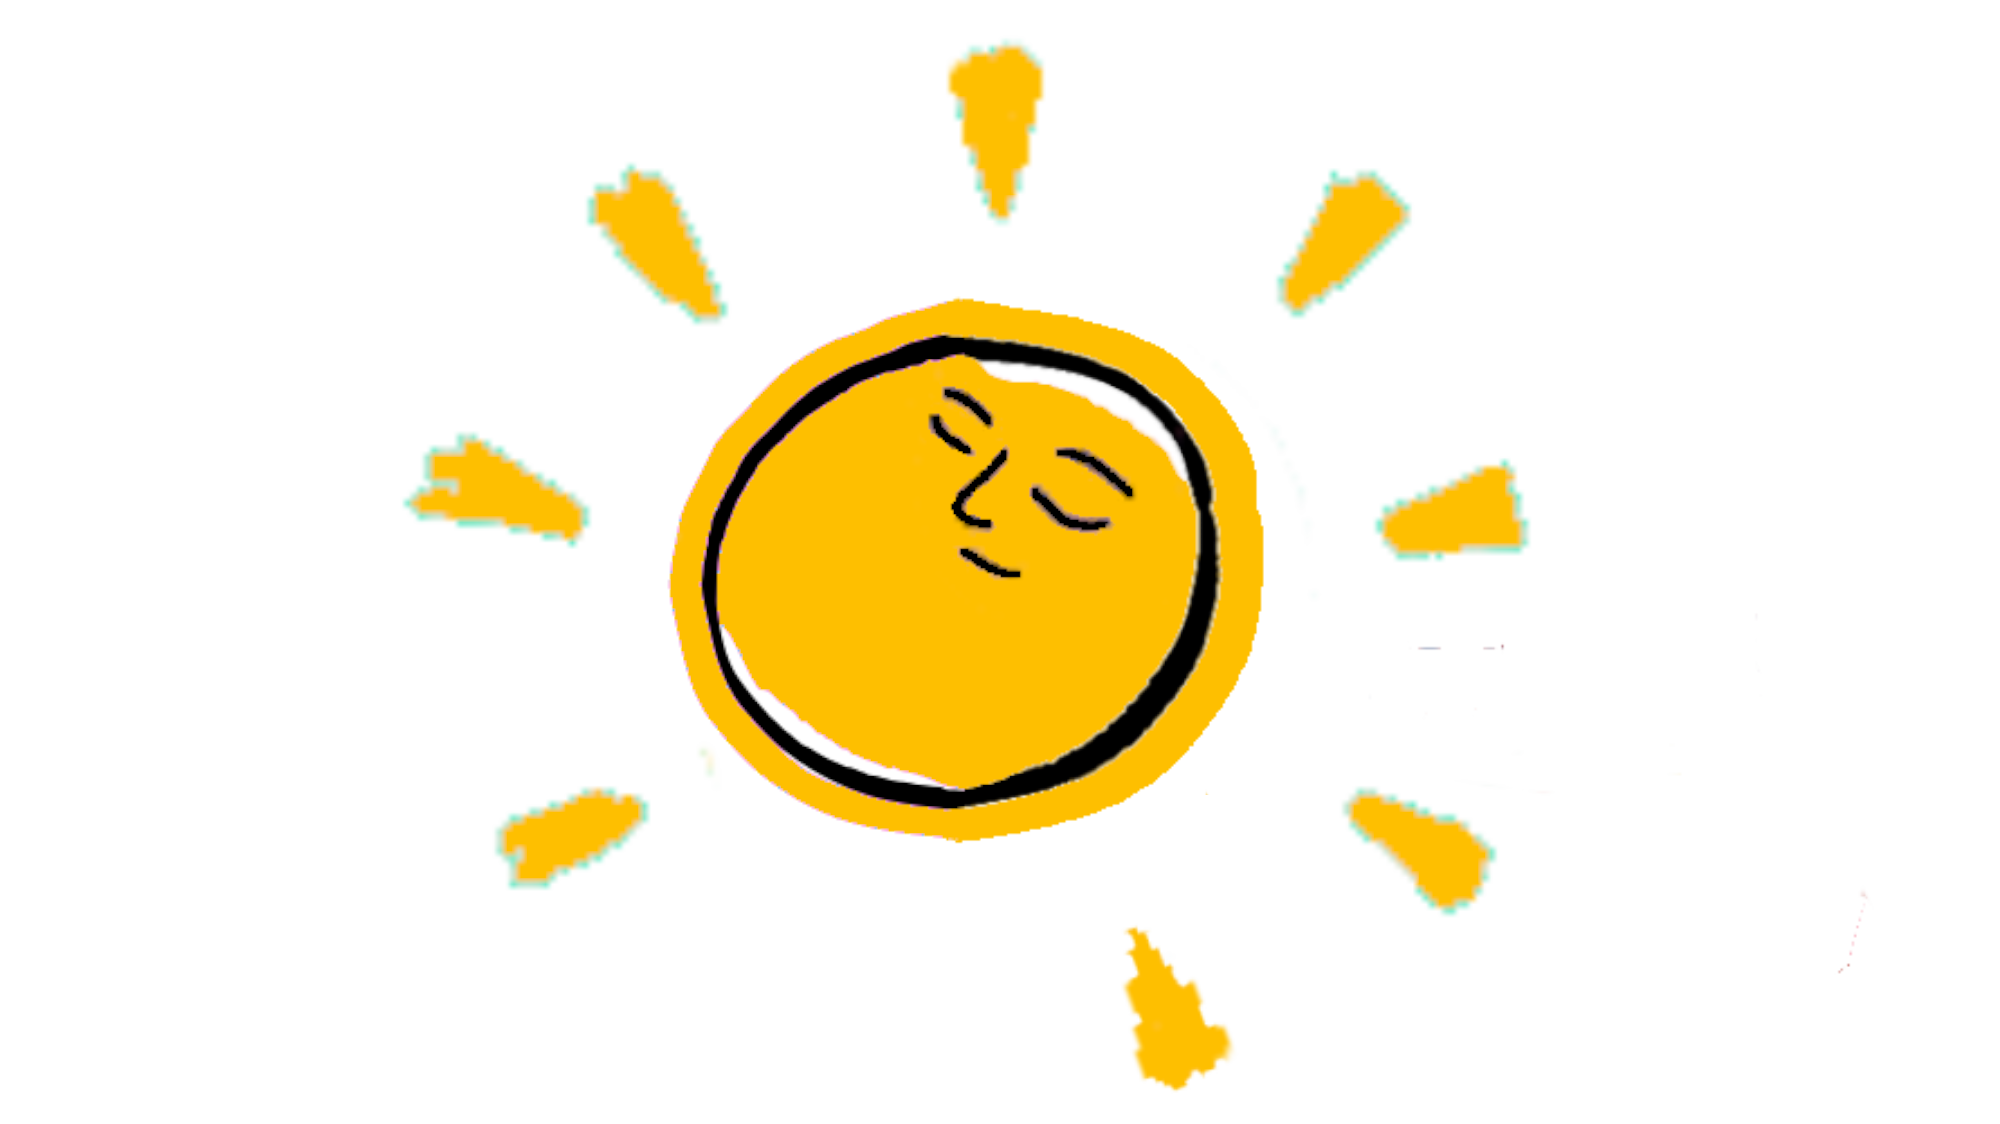
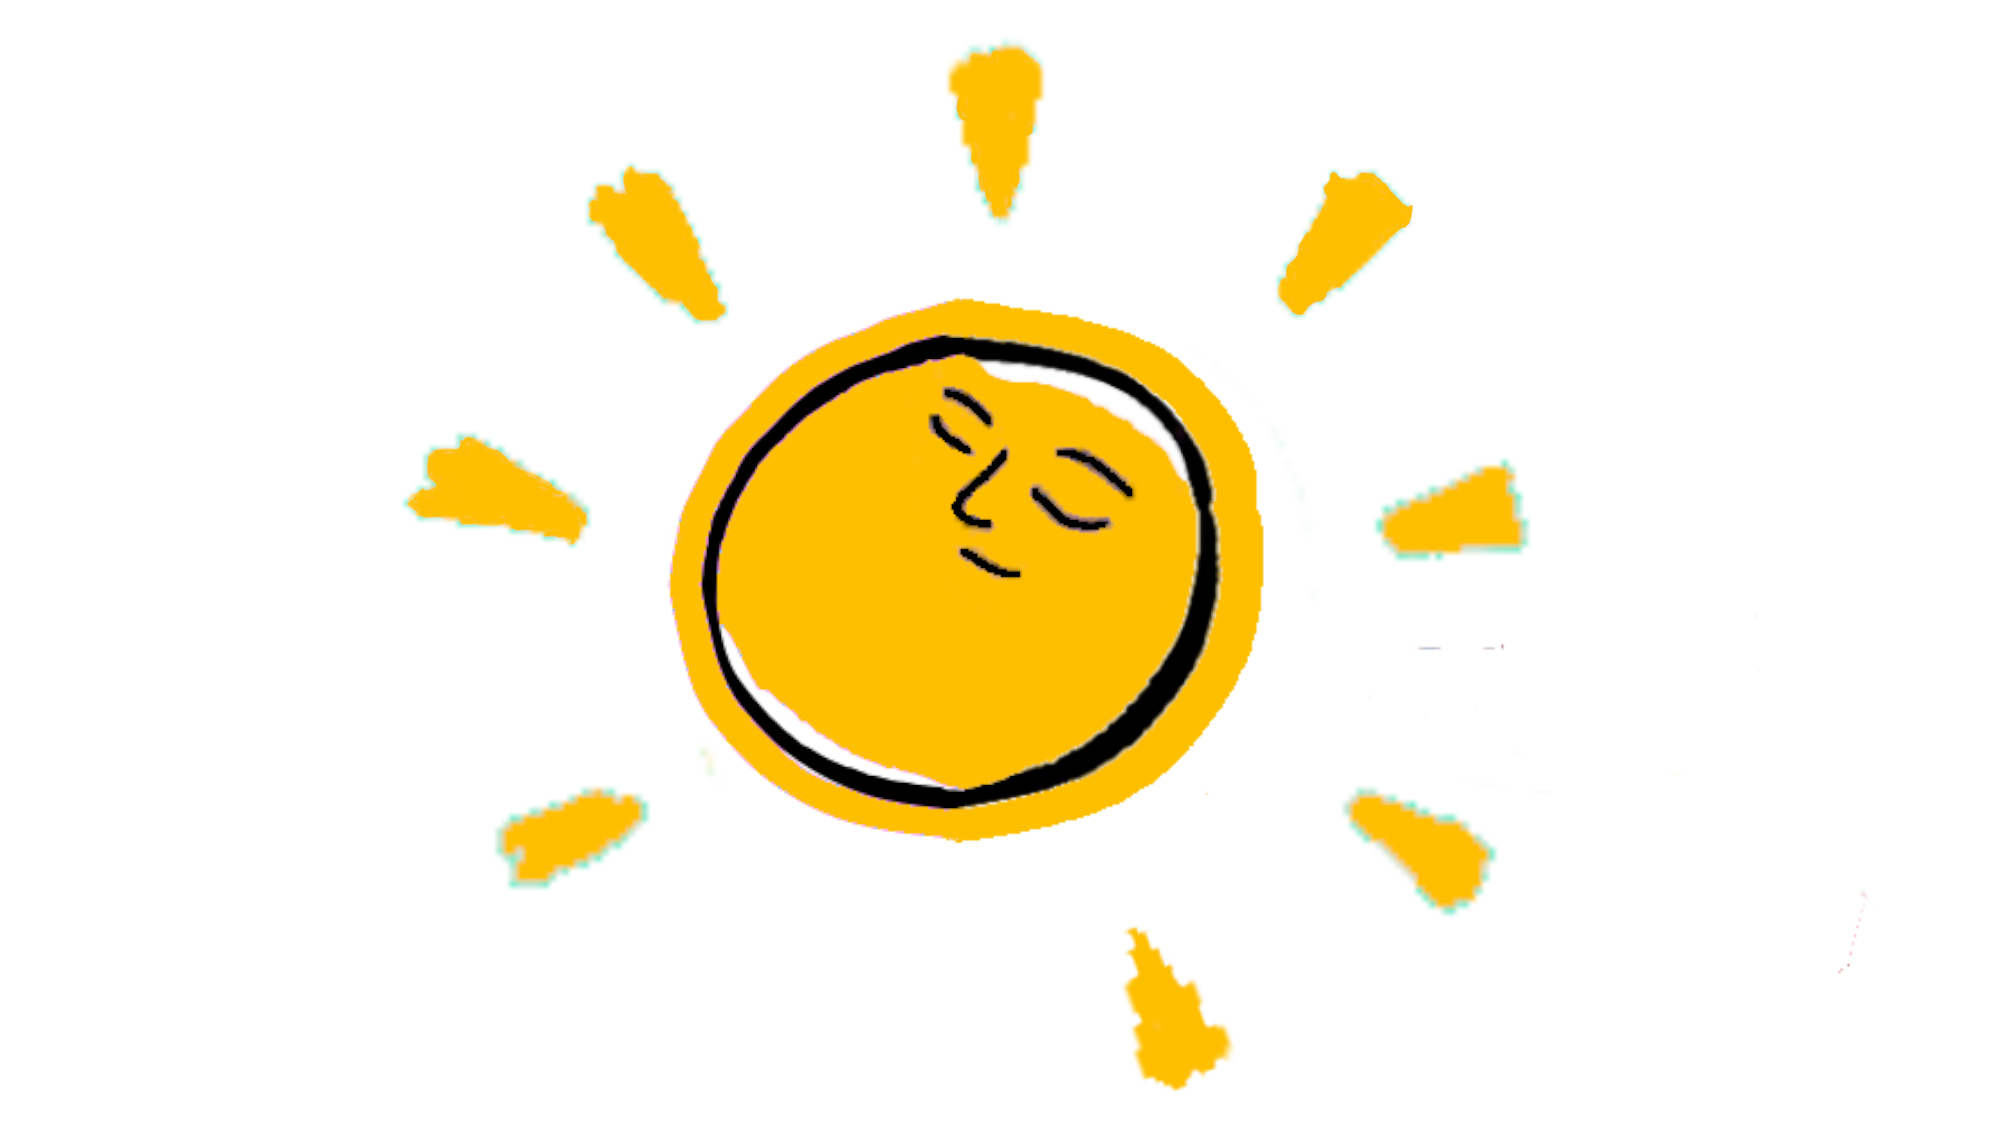
Refine Ludoteca filters with card6 SVG panel and mobile layout tweaks.

diff --git a/client/src/index.css b/client/src/index.css
@@ -177,6 +177,79 @@
     box-shadow: 0 0 0 2px var(--color-ak-purple);
   }
 
+  /* Panel filtros Ludoteca — el SVG se dibuja vía <img> en Ludoteca.jsx */
+  .ak-filter-panel {
+    position: relative;
+    z-index: 10;
+    overflow: visible;
+    border: none;
+    border-radius: 0;
+    background: transparent;
+    box-shadow: none;
+    padding: 1.35rem 1.75rem;
+    transition: transform 180ms ease;
+  }
+
+  /* Fondo SVG del panel: desktop = estado previo a “sube 16px”; móvil conserva ajustes */
+  .ak-filter-panel-bg {
+    left: 50%;
+    top: 50%;
+    width: 120%;
+    height: 120%;
+  }
+
+  @media (max-width: 767px) {
+    .ak-filter-panel-bg {
+      /* acumulado móvil: +5% der., 5+8px izq., sube 16px */
+      left: calc(55% - 13px);
+      top: calc(50% - 16px);
+      height: 138.6%;
+    }
+  }
+
+  @media (min-width: 640px) {
+    .ak-filter-panel {
+      padding: 1.5rem 2rem;
+    }
+  }
+
+  @media (min-width: 1024px) {
+    .ak-filter-panel {
+      padding: 1.65rem 2.25rem;
+    }
+  }
+
+  @media (prefers-reduced-motion: no-preference) {
+    .ak-filter-panel:hover {
+      transform: translateY(-3px);
+    }
+  }
+
+  /* Campos — mismo card6.svg, escala al tamaño de cada input */
+  .ak-filter-input {
+    width: 100%;
+    appearance: none;
+    border: none;
+    border-radius: 0;
+    background-color: transparent;
+    background-image: url('./assets/card6.svg');
+    background-repeat: no-repeat;
+    background-position: center;
+    background-size: 100% 100%;
+    box-shadow: none;
+    padding: 0.78rem 1.3rem;
+    font-family: var(--font-body);
+    font-weight: 600;
+    font-size: 0.875rem;
+    outline: none;
+    transition: filter 160ms ease;
+  }
+
+  .ak-filter-input:focus {
+    outline: 2px solid var(--color-ak-purple);
+    outline-offset: 2px;
+  }
+
   .ak-section {
     margin-inline: auto;
     width: 100%;

diff --git a/client/src/sections/Ludoteca.jsx b/client/src/sections/Ludoteca.jsx
@@ -2,8 +2,7 @@ import { useEffect, useMemo, useState } from 'react';
 import { getJuegoRandom, getJuegos } from '../api';
 import boton2 from '../assets/boton2.png';
 import boton3 from '../assets/boton3.png';
-import card5 from '../assets/card5.png';
-import card6 from '../assets/card6.png';
+import card6 from '../assets/card6.svg';
 
 const TIPOS = [
   { value: '', label: 'Todos' },
@@ -23,25 +22,15 @@ const COLORS = [
   'bg-ak-cyan',
 ];
 
-const filterFieldClass =
-  'relative z-10 w-full appearance-none border-0 bg-transparent px-5 py-3 font-body text-sm font-semibold outline-none focus:ring-0';
-
 function FilterField({ label, children }) {
   return (
-    <label className="flex flex-col gap-1 text-sm font-bold">
+    <label className="flex w-full flex-col gap-1 text-sm font-bold">
       {label}
-      <span className="relative flex min-h-12 items-center overflow-visible">
-        <img
-          src={card6}
-          alt=""
-          aria-hidden="true"
-          className="pointer-events-none absolute left-[calc(50%-40px-21rem-125px)] top-1/2 z-0 h-[14rem] w-[42rem] max-w-none origin-left -translate-y-1/2 scale-x-[1.5] object-contain"
-        />
-        <span className="relative z-10 w-full">{children}</span>
-      </span>
+      {children}
     </label>
   );
 }
+
 export default function Ludoteca() {
   const [juegos, setJuegos] = useState([]);
   const [loading, setLoading] = useState(true);
@@ -109,7 +98,7 @@ export default function Ludoteca() {
   }
 
   return (
-    <section id="juegos" className="ak-section">
+    <section id="juegos" className="ak-section overflow-visible">
       <div className="mb-6 flex flex-col gap-4 md:flex-row md:items-end md:justify-between">
         <div>
           <h2 className="text-3xl sm:text-4xl">Ludoteca</h2>
@@ -130,17 +119,17 @@ export default function Ludoteca() {
         </span>
       </div>
 
-      <div className="relative z-10 mb-6 mt-[30px] overflow-visible p-4 transition duration-200 hover:-translate-y-[3px] motion-reduce:transition-none motion-reduce:hover:translate-y-0">
+      <div className="ak-filter-panel mb-6 mt-[46px] overflow-visible sm:mt-6 lg:mt-[30px]">
         <img
-          src={card5}
+          src={card6}
           alt=""
           aria-hidden="true"
-          className="pointer-events-none absolute left-[calc(50%+40px)] top-[calc(50%+100px)] z-0 h-[660%] w-[480%] max-w-none -translate-x-1/2 -translate-y-1/2 object-contain mix-blend-screen sm:h-[720%] sm:w-[450%]"
+          className="ak-filter-panel-bg pointer-events-none absolute z-0 max-w-none -translate-x-1/2 -translate-y-1/2 object-fill"
         />
-        <div className="relative z-10 grid translate-y-[10px] gap-3 sm:grid-cols-2 lg:grid-cols-5">
+        <div className="relative z-10 grid grid-cols-1 gap-4 sm:grid-cols-2 sm:gap-3 lg:grid-cols-5">
           <FilterField label="Buscar">
             <input
-              className={filterFieldClass}
+              className="ak-filter-input"
               type="search"
               value={filters.q}
               onChange={(e) => updateFilter('q', e.target.value)}
@@ -150,7 +139,7 @@ export default function Ludoteca() {
 
           <FilterField label="Tipo">
             <select
-              className={filterFieldClass}
+              className="ak-filter-input"
               value={filters.tipo}
               onChange={(e) => updateFilter('tipo', e.target.value)}
             >
@@ -164,7 +153,7 @@ export default function Ludoteca() {
 
           <FilterField label="Jugadores">
             <input
-              className={filterFieldClass}
+              className="ak-filter-input"
               type="number"
               min="1"
               value={filters.jugadores}
@@ -175,7 +164,7 @@ export default function Ludoteca() {
 
           <FilterField label="Edad mínima ≤">
             <input
-              className={filterFieldClass}
+              className="ak-filter-input"
               type="number"
               min="0"
               value={filters.edad}
@@ -186,7 +175,7 @@ export default function Ludoteca() {
 
           <FilterField label="Duración ≤ (min)">
             <input
-              className={filterFieldClass}
+              className="ak-filter-input"
               type="number"
               min="1"
               value={filters.duracion}
@@ -197,7 +186,7 @@ export default function Ludoteca() {
         </div>
       </div>
 
-      <div className="relative z-10 mb-4 mt-[60px] flex flex-wrap items-center gap-3 overflow-visible">
+      <div className="relative z-10 mb-4 mt-8 flex flex-wrap items-center gap-3 gap-x-[32px] overflow-visible sm:mt-10 sm:gap-x-3 lg:mt-[60px]">
         <button
           type="button"
           onClick={handleSorprendeme}

diff --git a/client/vite.config.js b/client/vite.config.js
@@ -5,6 +5,7 @@ import tailwindcss from '@tailwindcss/vite'
 export default defineConfig({
   plugins: [react(), tailwindcss()],
   server: {
+    host: true,
     port: 5173,
   },
 })

diff --git a/HANDOFF2.md b/HANDOFF2.md
@@ -1,0 +1,160 @@
+# Handoff 2 — Akelarre: Juegos en Movimiento
+
+Documento para continuar con **otro agente**. Complementa (y en UI actualiza) a `HANDOFF.md`.
+
+**Fecha:** 2026-07-23  
+**Workspace:** `C:\Proyectos\Akelarre`  
+**Rama:** `master`  
+**Regla del usuario:** **NO commit / NO push** salvo pedido explícito. Responder en **español**.
+
+---
+
+## 1. Producción (igual que HANDOFF)
+
+| Recurso | URL |
+|---------|-----|
+| Repo | https://github.com/arielp79/Akelarre |
+| Frontend (Netlify) | https://akelarre-juegos.netlify.app |
+| API (Render) | https://akelarre-api.onrender.com |
+
+```bash
+npm install && npm install --prefix server && npm install --prefix client
+copy server\.env.example server\.env
+npm run seed
+npm run dev   # API :4000 + front :5173
+```
+
+Vite: `client/vite.config.js` tiene `server.host: true` (útil para probar en celular por LAN).
+
+---
+
+## 2. Qué cambió desde HANDOFF.md
+
+`HANDOFF.md` quedó desactualizado en tipografía y en varios detalles de UI. Resumen de trabajo reciente:
+
+### Tipografía
+- **Balsamiq Sans** (400/700) en `client/src/index.css` (`--font-display` / `--font-body`).
+- Ya no se usan Fredoka/Nunito.
+
+### Experiencia Facilitada (`client/src/sections/Experiencia.jsx`)
+- Tarjetas con PNG `card1`–`card4` (sin emojis / sin `botonblanco2`).
+- Textos sobre/dentro de la card; **card4** con offset `translate-x-[10px] translate-y-[10px]`.
+- Imágenes con `mix-blend-screen`, escaladas ~280%.
+
+### Servicios (`client/src/sections/Servicios.jsx`)
+- Nubes: Noches→`nube1`, Eventos→`nube4`, Instalaciones→`nube2`.
+- Escalas relativas: `nube1` `scale-[1.057]`, `nube4` `scale-[1.1]`, `nube2` `scale-[0.8925]`.
+- Tamaño fijo en rem (no `%`) para que el texto API no deforme la nube.
+- **Sol** (`sol.png`) detrás, entre Eventos e Instalaciones — **solo desktop** (`hidden md:block`).
+- Sticky/fade del sol en móvil: **probado y revertido** (no reintroducir sin pedirlo).
+
+### Espaciado global
+- `.ak-section` usa `padding-block: 3rem` unificado en `index.css`.
+
+### Ludoteca — filtros (trabajo activo / último foco)
+Evolución:
+1. PNG `card5` / `card6` con offsets fijos → **mal en móvil**.
+2. Opción A: CSS puro irregular → descartada a favor de B.
+3. **Opción B (actual):** fondos SVG escalables.
+
+**Estado actual:**
+- `client/src/assets/card5.svg` — panel contenedor de filtros (pastilla irregular).
+- `client/src/assets/card6.svg` — cada input/select.
+- Clases CSS: `.ak-filter-panel` y `.ak-filter-input` en `client/src/index.css`.
+- Markup: `client/src/sections/Ludoteca.jsx` (sin `<img>` de card5/6; solo clases).
+- `background-size: 100% 100%`, `preserveAspectRatio="none"` en los SVG.
+- Paths **más irregulares** (último pedido del usuario: “lo quiero más irregular”) + padding un poco mayor para que el texto no roce el borde.
+- Focus: outline púrpura (`--color-ak-purple`).
+- Hover panel: `translateY(-3px)` si no hay `prefers-reduced-motion`.
+
+PNG legacy aún en assets (`card5.png`, `card6.png`, `card6-source.png`) — **no usados** por el markup actual de filtros.
+
+---
+
+## 3. Archivos tocados / clave ahora
+
+| Archivo | Rol |
+|---------|-----|
+| `client/src/index.css` | Tipografía Balsamiq, `.ak-section`, `.ak-filter-panel`, `.ak-filter-input` |
+| `client/src/assets/card5.svg` | Fondo panel filtros Ludoteca |
+| `client/src/assets/card6.svg` | Fondo campos filtro |
+| `client/src/sections/Ludoteca.jsx` | Usa clases `ak-filter-*` |
+| `client/src/sections/Servicios.jsx` | Nubes + sol |
+| `client/src/sections/Experiencia.jsx` | Cards 1–4 |
+| `client/vite.config.js` | `host: true` |
+
+Backend (sin cambios recientes de UI): ver `HANDOFF.md` §4.
+
+---
+
+## 4. Git — estado probable (verificar con `git status`)
+
+Cambios locales frecuentes **sin commit** (no asumir limpio):
+
+- Modificados típicos: `.gitignore`, `README.md`, `package.json`, `render.yaml`, y todo el trabajo UI de client (CSS, SVG, secciones).
+- Untracked: `HANDOFF.md`, `HANDOFF2.md`, carpeta `Imagenes Akelarre/`, a veces `scripts/` o backups PNG.
+
+> El build usa `client/src/assets/`, no `Imagenes Akelarre/` directamente.
+
+**Verificar siempre** antes de tocar:
+
+```bash
+git status -sb
+git log -10 --oneline
+git diff --stat
+```
+
+---
+
+## 5. Gotchas (actualizar lista)
+
+1. **Nubes con `%`:** no; tamaño en `rem` fijo.
+2. **PNG blanco exterior:** flood-fill desde bordes (interior blanco opaco).
+3. **Filtros Ludoteca:** no volver a offsets fijos en px para “centrar” el PNG; el SVG debe escalar.
+4. **`preserveAspectRatio="none"`:** deforma el trazo al estirar; si se ve demasiado “aplastado”, ajustar viewBox/padding o path, no offsets absolutos.
+5. **Sol móvil:** no sticky (ya revertido).
+6. **Sorpréndeme:** hace `scrollIntoView` a la tarjeta (puede “subir” la página).
+7. **CORS / Render free / Netlify créditos:** ver `HANDOFF.md` §7.
+8. **No commit** sin pedido explícito del usuario.
+
+---
+
+## 6. Pendiente inmediato (UI)
+
+Prioridad sugerida al retomar:
+
+1. **Validar filtros Ludoteca** en desktop + móvil (forma irregular, padding, focus, select nativo).
+2. Si el usuario pide más/menos irregularidad → editar paths de `card5.svg` / `card6.svg` (no CSS border-radius).
+3. Revisar si el outline de focus choca visualmente con el trazo dibujado; posibles alternativas: stroke SVG vía filtro CSS o ring más suave.
+4. Resto MVP (video Hero, galería real, +80 juegos, Instagram, admin, dominio): igual que `HANDOFF.md` §8.
+
+---
+
+## 7. Contexto del último mensaje del usuario
+
+> «lo quiero más irregular» → aplicado en SVG de filtros.  
+> «haz un handoff2…» → este documento.
+
+No hubo commit de esos cambios en esa sesión.
+
+---
+
+## 8. Prompt para el siguiente agente
+
+```
+Continúa el proyecto Akelarre (MERN, landing institucional).
+Repo: C:\Proyectos\Akelarre
+Front: https://akelarre-juegos.netlify.app
+API: https://akelarre-api.onrender.com
+
+Lee HANDOFF2.md (y HANDOFF.md solo como contexto backend/estructura).
+Estado UI reciente:
+- Tipografía Balsamiq Sans
+- Experiencia con card1–card4 PNG
+- Servicios: nubes + sol desktop
+- Ludoteca filtros: opción B con card5.svg / card6.svg (paths irregulares) + clases .ak-filter-panel / .ak-filter-input
+
+Último foco: afinar irregularidad de los SVG de filtros.
+NO commitear ni pushear salvo que yo lo pida.
+Responde en español.
+```